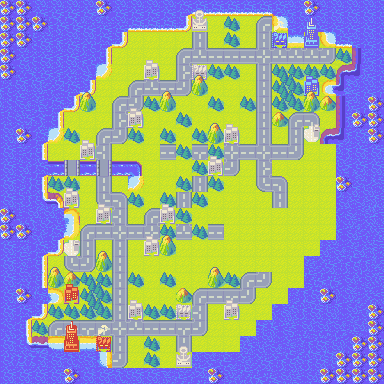
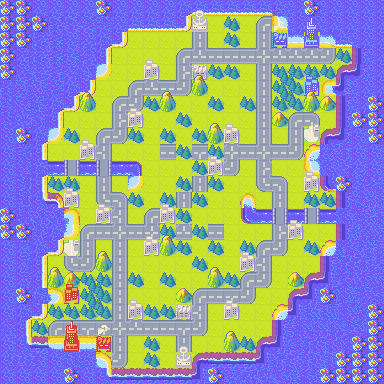
movement tweaks, lander, recon, terrain

Changed region(s): [[0.25, 0.375, 0.9375, 1.0], [0.4375, 0.625, 0.5938, 0.7188], [0.8125, 0.0625, 0.875, 0.125]]

diff --git a/projects/GWG/majig12346/terrain/Terrain.java b/projects/GWG/majig12346/terrain/Terrain.java
@@ -38,6 +38,7 @@ public abstract class Terrain extends Location{
 		case FOOT:return getMoveCostFoot();
 		case TIRES:return getMoveCostTires();
 		case TREADS:return getMoveCostTreads();
+		case LANDER: return getMoveCostLander();
 		default:throw new IllegalArgumentException();
 		}
 	}
@@ -71,6 +72,13 @@ public abstract class Terrain extends Location{
 	 * to traverse this terrain -- override to set
 	 */
 	protected double getMoveCostBoat(){
+		return 999;
+	}
+	/**
+	 * @return the cost of mobility points that a unit of movementType.LANDER would take 
+	 * to traverse this terrain -- override to set
+	 */
+	protected double getMoveCostLander(){
 		return 999;
 	}
 	

diff --git a/projects/GWG/majig12346/terrain/Forest.java b/projects/GWG/majig12346/terrain/Forest.java
@@ -21,25 +21,22 @@ public class Forest extends Terrain {
 
 	@Override
 	public int getDefense() {
-		return 0;
+		return 2;
 	}
 
 	@Override
 	protected double getMoveCostFoot() {
-		// TODO Auto-generated method stub
-		return 0;
+		return 1;
 	}
 
 	@Override
 	protected double getMoveCostTires() {
-		// TODO Auto-generated method stub
-		return 0;
+		return 3;
 	}
 
 	@Override
 	protected double getMoveCostTreads() {
-		// TODO Auto-generated method stub
-		return 0;
+		return 2;
 	}
 
 }

diff --git a/projects/GWG/majig12346/terrain/Road.java b/projects/GWG/majig12346/terrain/Road.java
@@ -27,17 +27,17 @@ public class Road extends Terrain {
 
 	@Override
 	protected double getMoveCostFoot() {
-		return 0.5;
+		return 1;
 	}
 
 	@Override
 	protected double getMoveCostTires() {
-		return 0.5;
+		return 1;
 	}
 
 	@Override
 	protected double getMoveCostTreads() {
-		return 0.5;
+		return 1;
 	}
 
 }

diff --git a/projects/GWG/majig12346/terrain/Beach.java b/projects/GWG/majig12346/terrain/Beach.java
@@ -40,8 +40,8 @@ public class Beach extends Terrain {
 		return 1;
 	}
 	@Override
-	protected double getMoveCostBoat() {
-		return 2;
+	protected double getMoveCostLander() {
+		return 1;
 	}
 
 }

diff --git a/projects/GWG/majig12346/terrain/Ocean.java b/projects/GWG/majig12346/terrain/Ocean.java
@@ -24,6 +24,10 @@ public class Ocean extends Terrain{
 		return 1;
 	}
 	@Override
+	protected double getMoveCostLander() {
+		return 1;
+	}
+	@Override
 	public int getDefense() {
 		return 0;
 	}

diff --git a/projects/GWG/majig12346/terrain/Plains.java b/projects/GWG/majig12346/terrain/Plains.java
@@ -22,7 +22,7 @@ public class Plains extends Terrain{
 
 	@Override
 	protected double getMoveCostTires() {
-		return 1;
+		return 2;
 	}
 
 	@Override

diff --git a/projects/GWG/majig12346/PassiveFlag.java b/projects/GWG/majig12346/PassiveFlag.java
@@ -6,7 +6,8 @@ public class PassiveFlag {
 			TIRES, 
 			TREADS, 
 			SEA, 
-			AIR
+			AIR,
+			LANDER
 	}
 	public enum COFlag{
             COST,
